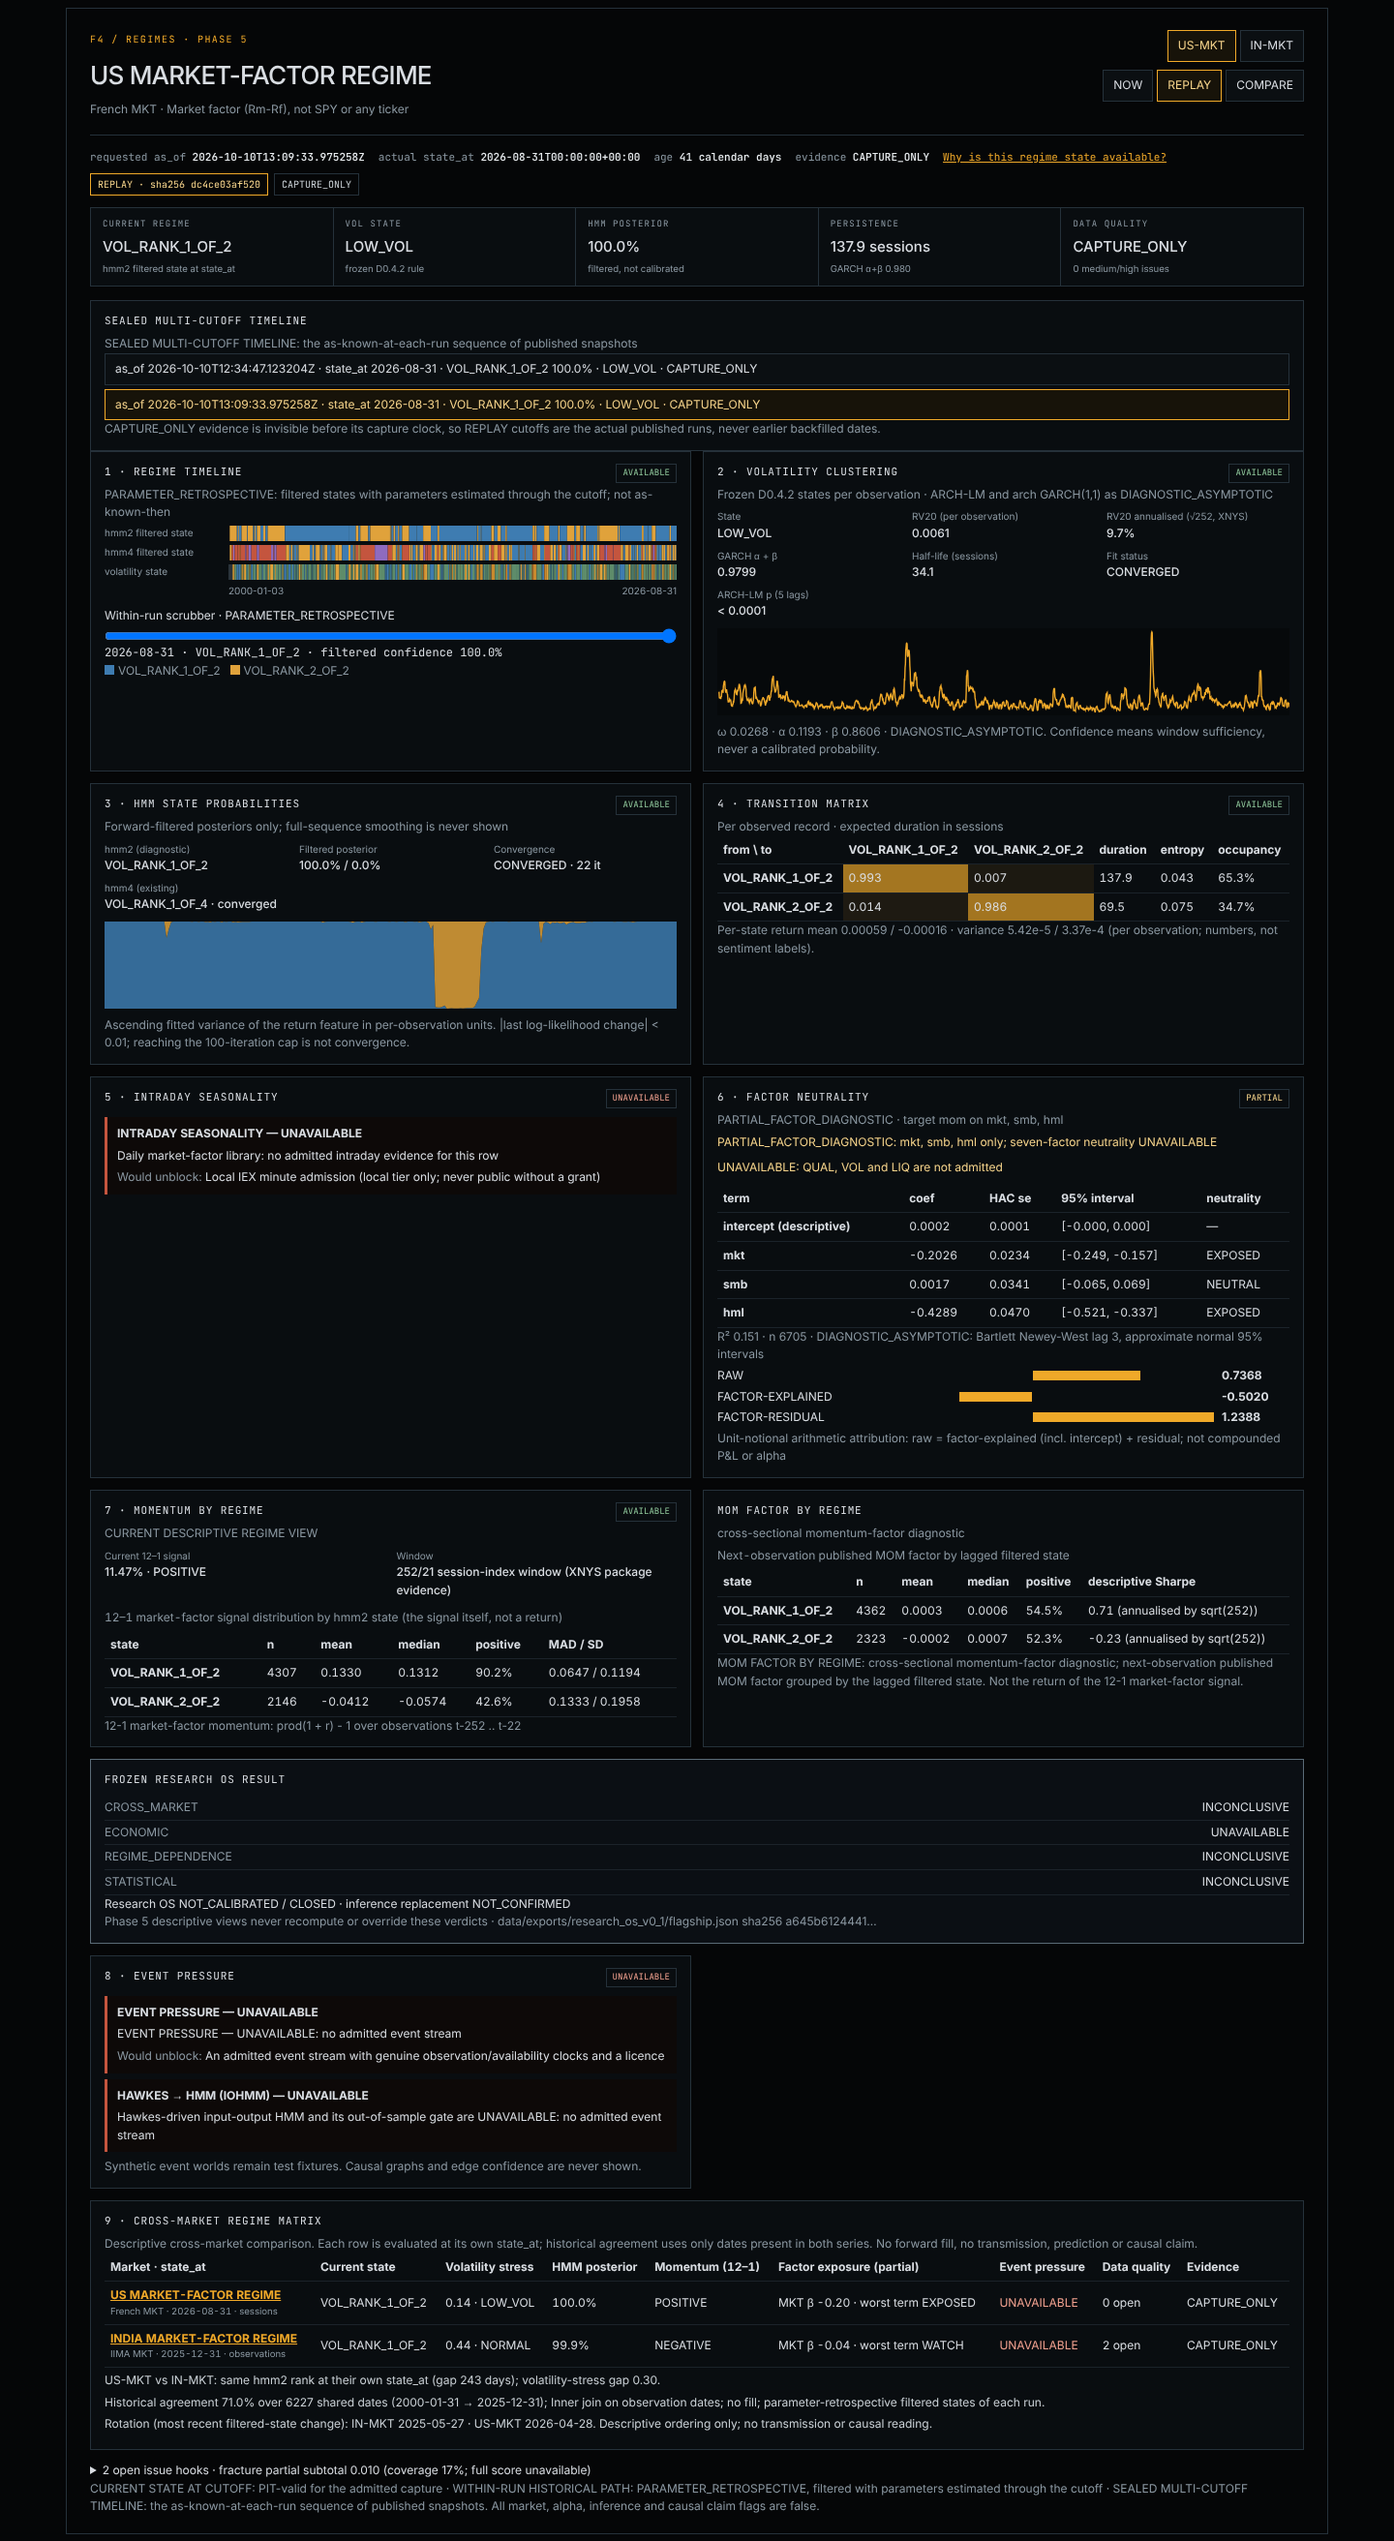
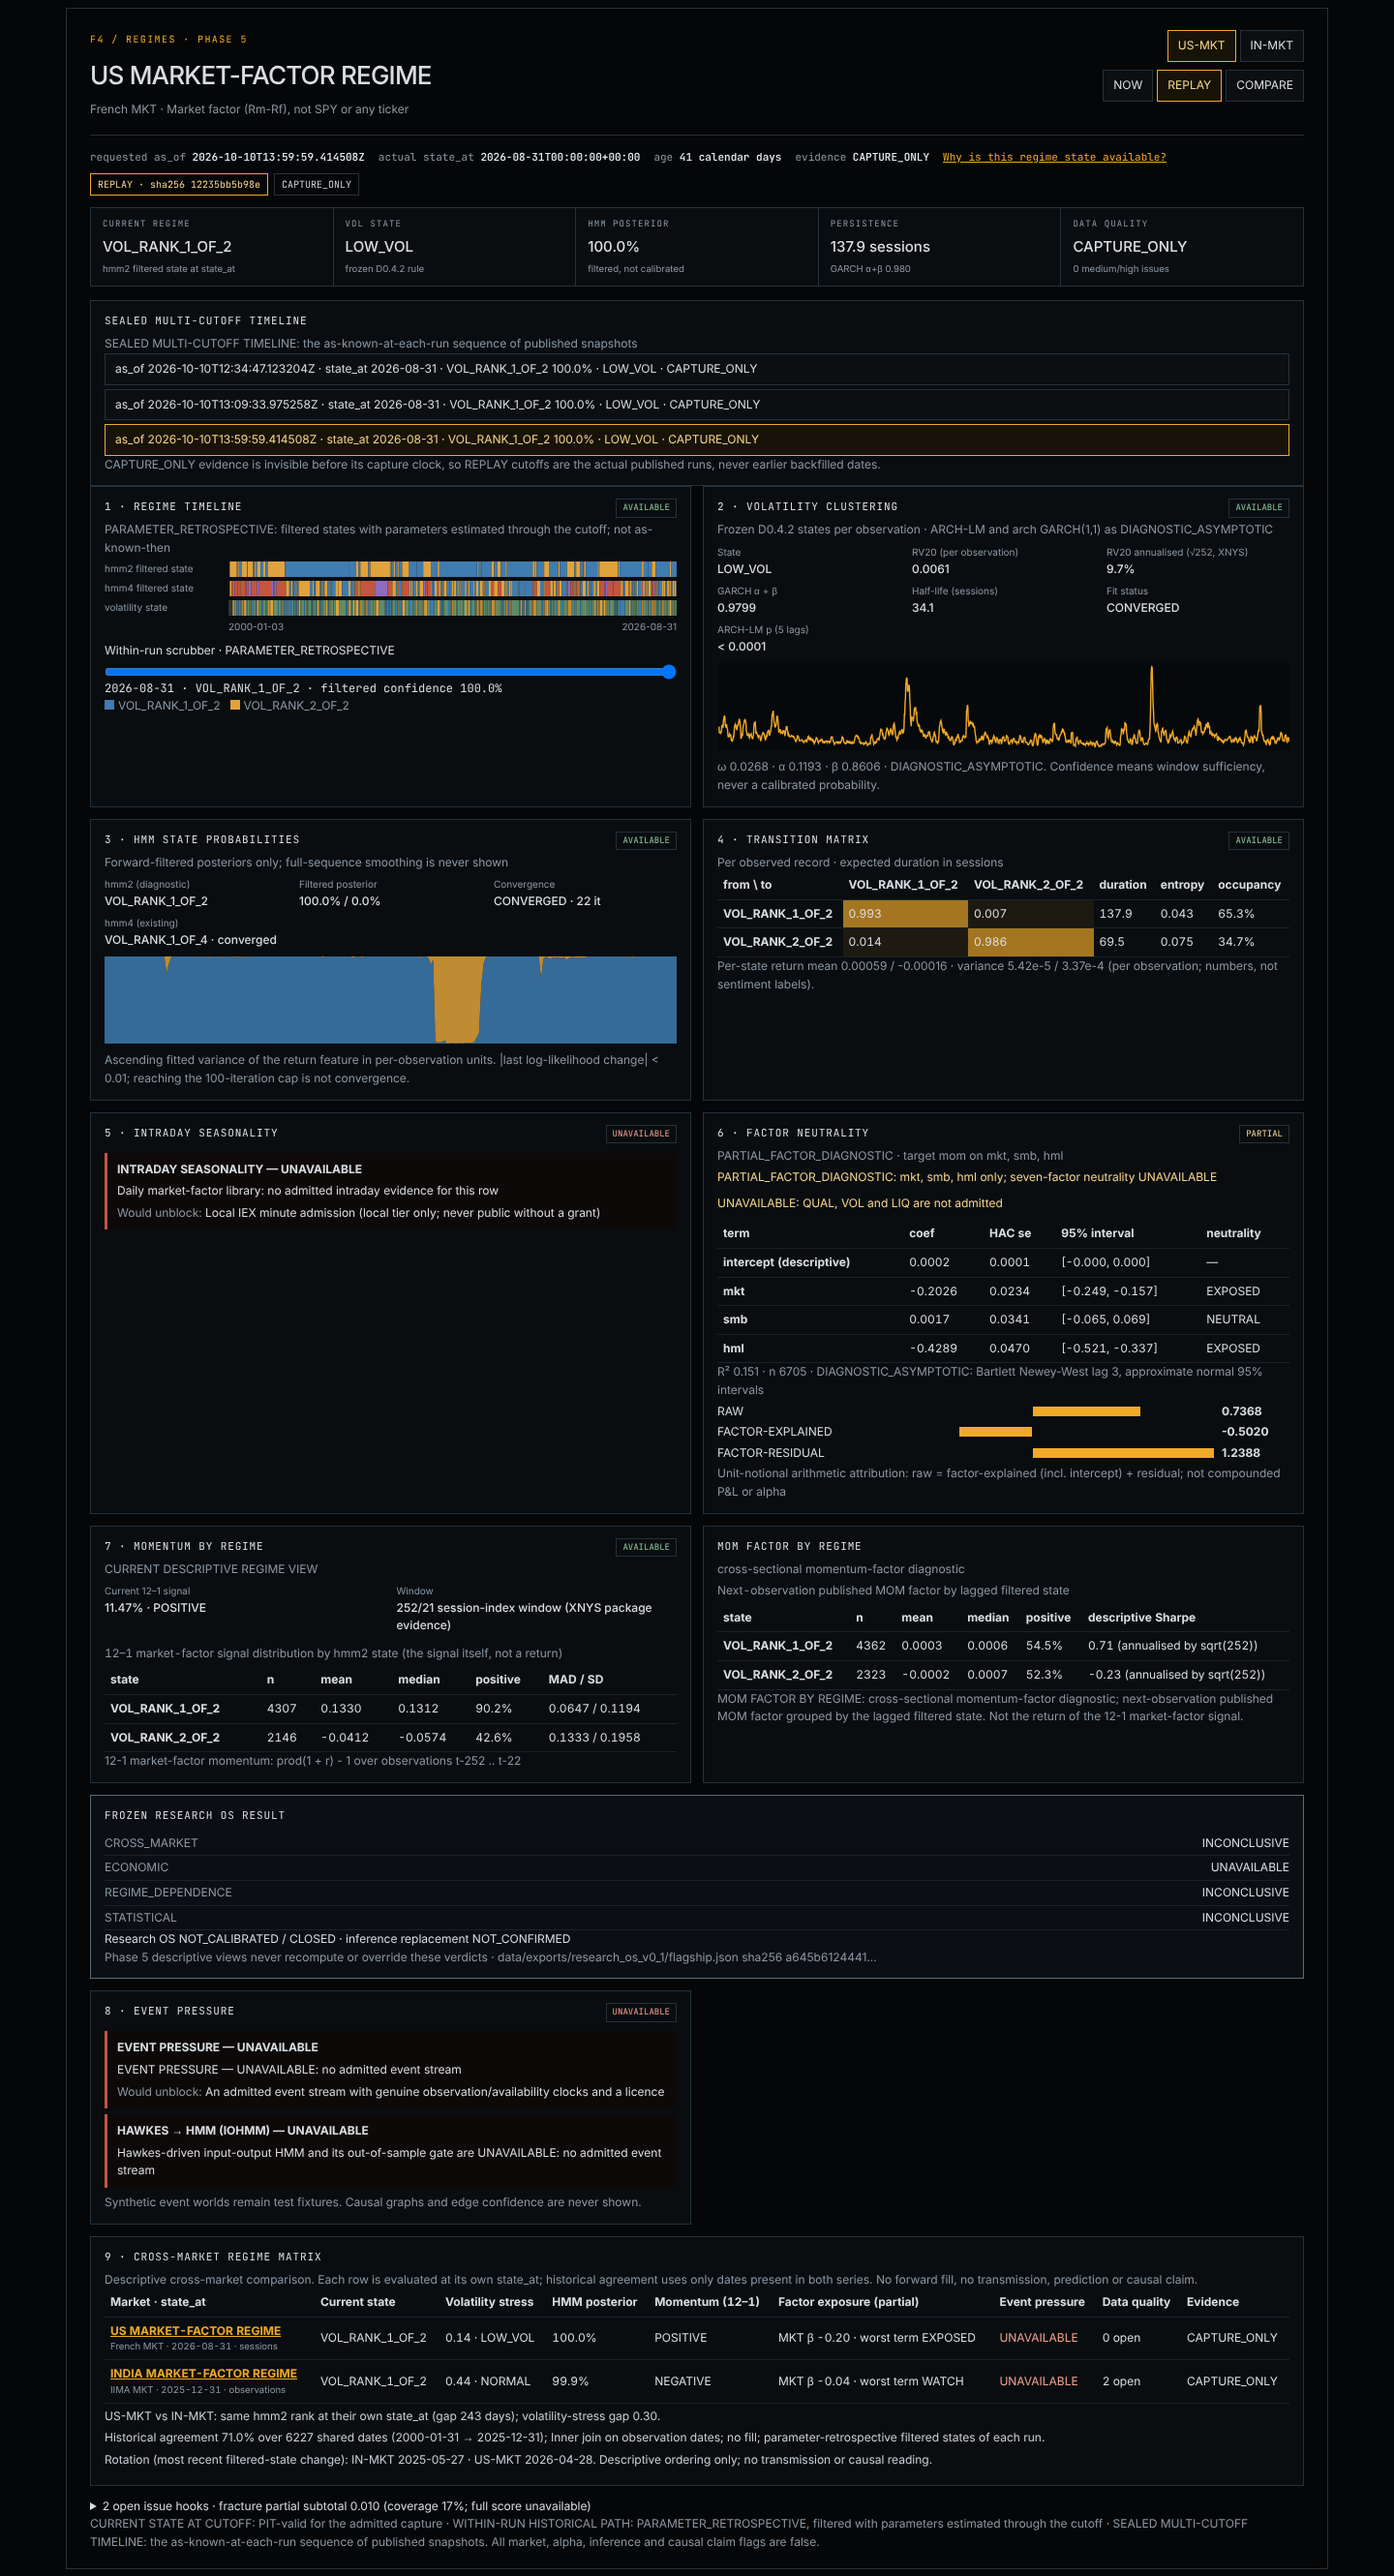
docs(regimes): findings and screenshots at the final sealed cutoff
The final computation code sealed a third cutoff (13:59:59Z, execution
commit 9ea8d52) with every published value unchanged, and an unchanged
dispatch on that code computed and committed nothing.

diff --git a/docs/findings/real-regimes-v0.1.md b/docs/findings/real-regimes-v0.1.md
@@ -1,6 +1,6 @@
 # Both market factors sit in their calmer regime; India's evidence is 284 days old
 
-At the sealed cutoff `2026-10-10T13:09:33.975258Z`, the filtered two-state HMM puts
+At the sealed cutoff `2026-10-10T13:59:59.414508Z`, the filtered two-state HMM puts
 both the US and the Indian market factor in `VOL_RANK_1_OF_2`, the lower-variance
 regime, with filtered posteriors of 1.000 and 0.999. They are evaluated at their own
 `state_at`: 2026-08-31 for the US and 2025-12-31 for India, 243 days apart. India's
@@ -20,7 +20,7 @@ is a volatility-only partial subtotal.
 | | US MARKET-FACTOR REGIME | INDIA MARKET-FACTOR REGIME |
 | --- | --- | --- |
 | Source | [French daily factors](https://mba.tuck.dartmouth.edu/pages/faculty/ken.french/ftp/F-F_Research_Data_Factors_daily_CSV.zip) + [momentum](https://mba.tuck.dartmouth.edu/pages/faculty/ken.french/ftp/F-F_Momentum_Factor_daily_CSV.zip) | [IIMA four factors and market returns](https://faculty.iima.ac.in/iffm/Indian-Fama-French-Momentum/DATA/2025-12_FourFactors_and_Market_Returns_Daily_SurvivorshipBiasAdjusted.csv) |
-| Captured (CAPTURE_ONLY) | 2026-10-10T13:07:20Z (FF3), 13:08:46Z (MOM) | 2026-10-10T13:09:33Z |
+| Captured (CAPTURE_ONLY) | 2026-10-10T13:57:41Z (FF3), 13:59:10Z (MOM) | 2026-10-10T13:59:59Z |
 | Full library coverage | MKT/SMB/HML/RF 1926-07-01 → 2026-08-31 (26,317 rows each); MOM 1926-11-03 → 2026-08-31 (26,216) | MKT/SMB/HML/MOM/RF 1993-10-01 → 2025-12-31 (8,004 rows each) |
 | Analysis window (D1) | 2000-01-01 → 2026-08-31: 6,705 observations | 2000-01-01 → 2025-12-31: 6,466 observations |
 | Admitted / quarantined | 33,525 / 0 | 32,330 / 0 |
@@ -56,8 +56,10 @@ tests.
 | Persistence α+β · half-life | 0.980 · 34.1 sessions | 0.984 · 43.4 observations |
 | Frozen D0.4.2 state counts | NORMAL 3,749 · LOW_VOL 1,256 · HIGH_VOL 1,162 · VOL_CLUSTER 414 · VOL_BREAK 38 · VOL_SHOCK 27 · warm-up 59 | NORMAL 3,499 · LOW_VOL 1,052 · HIGH_VOL 1,027 · VOL_CLUSTER 744 · VOL_BREAK 51 · VOL_SHOCK 34 · warm-up 59 |
 
-Neither fit is at a parameter boundary, and both half-lives are inside the stationary
-domain.
+Neither fit is at a parameter boundary, and both ARCH coefficients are identified: their
+robust 95% lower bounds are 0.098 (US) and 0.098 (India), above zero. Both half-lives are
+inside the stationary domain. A fit without an identified ARCH effect is reported as
+`UNIDENTIFIED`, with no persistence or half-life.
 
 ## HMM regimes
 
@@ -144,20 +146,22 @@ These are not compounded P&L and not alpha.
 | [38052277371](https://github.com/RaghhavMalani/finsight-alpha/actions/runs/38052277371) | `655ab44` | No prior receipt → `PUBLISHED`: 10 sealed runs (one per computation per market), 0 holdout openings, re-projected from the runtime (`RE_PROJECTED`, 10 runs); committed `0ebbdd9` |
 | [38053525411](https://github.com/RaghhavMalani/finsight-alpha/actions/runs/38053525411) | `800236b` | Fresh runner, identical capture bytes → `{"status": "UNCHANGED", "new_runs": 0, "holdout_openings": 0}`; runtime `UNCHANGED_ZERO_RUNS`; nothing committed |
 | [38054445190](https://github.com/RaghhavMalani/finsight-alpha/actions/runs/38054445190) | `7682bcf` | Publication code changed (library coverage) → `PUBLISHED`: 10 new sealed runs, 0 openings; sealed history appended, earlier artifacts byte-identical; committed `f4a7d95` |
-| [38055871865](https://github.com/RaghhavMalani/finsight-alpha/actions/runs/38055871865) | `f4a7d95` | Fresh runner, identical bytes, final code → `UNCHANGED`, 0 runs, 0 openings; runtime `UNCHANGED_ZERO_RUNS`; 22 artifacts verified; nothing committed |
+| [38055871865](https://github.com/RaghhavMalani/finsight-alpha/actions/runs/38055871865) | `f4a7d95` | Fresh runner, identical bytes → `UNCHANGED`, 0 runs, 0 openings; runtime `UNCHANGED_ZERO_RUNS`; 22 artifacts verified; nothing committed |
+| [38057668714](https://github.com/RaghhavMalani/finsight-alpha/actions/runs/38057668714) | `9ea8d52` | Computation code changed (GARCH identification) → `PUBLISHED`: 10 new sealed runs, 0 openings, every published value unchanged; committed `477d725` |
+| [38059074354](https://github.com/RaghhavMalani/finsight-alpha/actions/runs/38059074354) | `477d725` | Fresh runner, identical bytes, final code → `UNCHANGED`, 0 runs, 0 openings; runtime `UNCHANGED_ZERO_RUNS`; 33 artifacts verified; nothing committed |
 
-The two sealed cutoffs agree on every published state because their input bytes are
-identical. The sealed multi-cutoff timeline therefore shows two entries, as known at
+The three sealed cutoffs agree on every published state because their input bytes are
+identical. The sealed multi-cutoff timeline therefore shows three entries, as known at
 each run.
 
 ## Identities at the current cutoff
 
-* Receipt `data/exports/regimes_v0_1/receipt-e307e1ed….json`; profile sha256 `b12b8ed7…`;
-  execution commit `7682bcf`, `dirty_computation: false`.
-* US runs: volatility `a3a69ddc…`, hmm2 `fda7bf8d…`, hmm4 `6ef2e72e…`, factors
-  `19d59987…`, momentum `bde2a485…`; snapshot `regimes:snapshot:dc4ce03a…`.
-* India runs: volatility `81bd2285…`, hmm2 `b1f80b32…`, hmm4 `d3d07180…`, factors
-  `46df1ebd…`, momentum `d380cdb0…`; snapshot `regimes:snapshot:e7545843…`.
+* Receipt `data/exports/regimes_v0_1/receipt-40683751….json`; profile sha256 `b12b8ed7…`;
+  execution commit `9ea8d52`, `dirty_computation: false`.
+* US runs: volatility `9038c013…`, hmm2 `91496503…`, hmm4 `6632b083…`, factors
+  `133fe71f…`, momentum `77f16d4a…`; snapshot `regimes:snapshot:12235bb5…`.
+* India runs: volatility `f839fd04…`, hmm2 `e8b9663b…`, hmm4 `ad0a7662…`, factors
+  `e5602e88…`, momentum `437bb21b…`; snapshot `regimes:snapshot:188141fd…`.
 
 ## What this does not show
 
